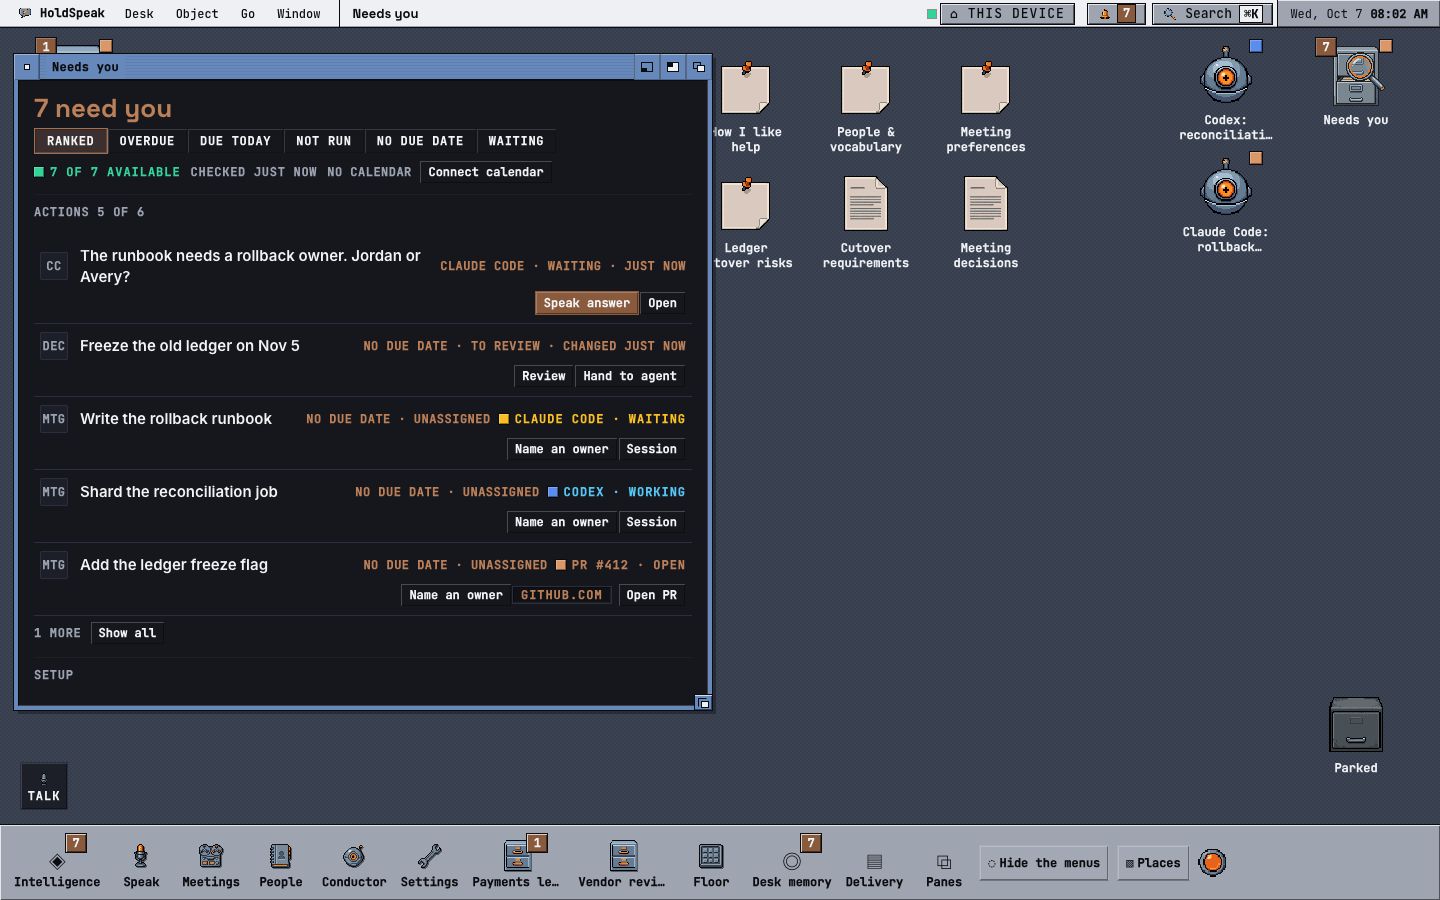
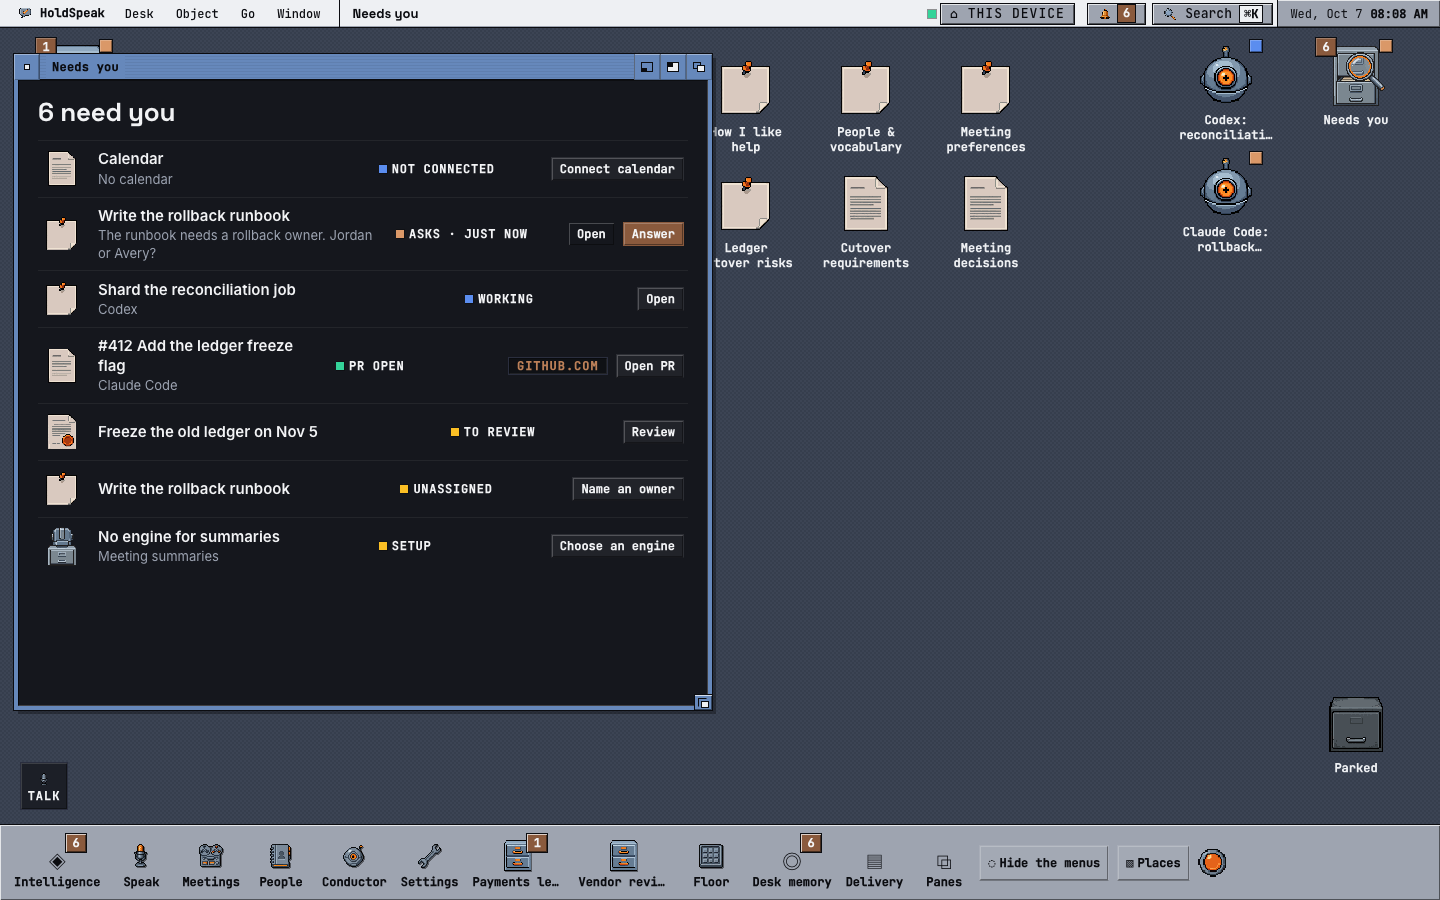
philo-14 B2 r1: canon D ruling (filters lightly raised); Needs you re-shot on the A5 drawer
UX-CANON D, ruled on #958: filters are lightly raised tokens (the soft
bevel, no plate); wings keep the full Steel bevel; the two never look
alike. contract.md and filter-tokens.css say the same. The Needs you pair
is re-shot after merging origin/main (A5 #935: the drawer of NeedsRows).

Claude-Session: https://claude.ai/code/session_01JXWT3zs5m2chRuEBWdtmre

diff --git a/web/src/desk/surface/filter-tokens.css b/web/src/desk/surface/filter-tokens.css
@@ -1,7 +1,8 @@
 /* HS-176-03 — FilterTokens: the one-tap filter strip.
 
-   Canon D: "Filters are flat tokens; wings are the beveled strip; the two
-   never look alike." PHILO-14 B2 (the material pass): a token is pressed,
+   Canon D (PHILO-14 B2, #958): "Filters are lightly raised tokens (the
+   soft bevel, no plate); wings keep the full Steel bevel; the two never
+   look alike." PHILO-14 B2 (the material pass): a token is pressed,
    so it LOOKS pressable (UX-CANON D): the LIGHT bevel of the grammar
    (`--bevel-raised-soft`), no plate (no fill, no border at rest), and the
    active token sinks (`--bevel-sunken-soft`) on its accent tint. A wing is

diff --git a/web/src/desk/surface/contract.md b/web/src/desk/surface/contract.md
@@ -90,7 +90,7 @@ A ChoiceCard is an OBJECT, not a list. Beyond label/description/facts/cost:
 
 ## FilterTokens (HS-176-03)
 
-The flat one-tap filter strip: `role="group"` over library `Button` species,
+The one-tap filter strip (lightly raised tokens, PHILO-14 B2): `role="group"` over library `Button` species,
 one active at a time. Promoted from the composition ratified on the Project
 Room's history wing (`ProjectRoomCore.tsx:1550-1566`) per canon B — a
 recurring element the library lacked.
@@ -123,8 +123,9 @@ Presence rules (they are the species, not the caller's business):
   `null` below `SPARSE_THRESHOLD` (`LedgerFilter.tsx:104`, `sparse.ts:4`).
 - **It carries no count.** `matchCount/total` would be a second count on a
   face that says its one count elsewhere (UX-CANON A.7/A.8).
-- Not to be confused with `SurfaceWings`: filters are flat tokens, wings are
-  the beveled strip, and the two never look alike (canon D).
+- Not to be confused with `SurfaceWings`: filters are lightly raised tokens
+  (the soft bevel, no plate), wings keep the full Steel bevel, and the two
+  never look alike (canon D, PHILO-14 B2 #958).
 
 ### The strip menu form (PHILO-13-11, C1 §3a)
 

diff --git a/docs/internal/UX-CANON.md b/docs/internal/UX-CANON.md
@@ -136,8 +136,8 @@ replace the earlier 11 px caption allowance.
   already fetched; sections rise in; idle never moves; reduced motion
   = instant. Four named motion moments per face at most.
 - Empty slots never move their neighbours (the footer's egress slot).
-- Filters are flat tokens; wings are the beveled strip; the two never
-  look alike.
+- Filters are lightly raised tokens (the soft bevel, no plate); wings
+  keep the full Steel bevel; the two never look alike (PHILO-14 B2, #958).
 - One word, one meaning per face (176): the wing is the noun (LEARNED),
   the receipt is the act (TAUGHT), the chip is the fact (APPLIED); a
   chip renders only from a stored per-run fact, never a read-time
